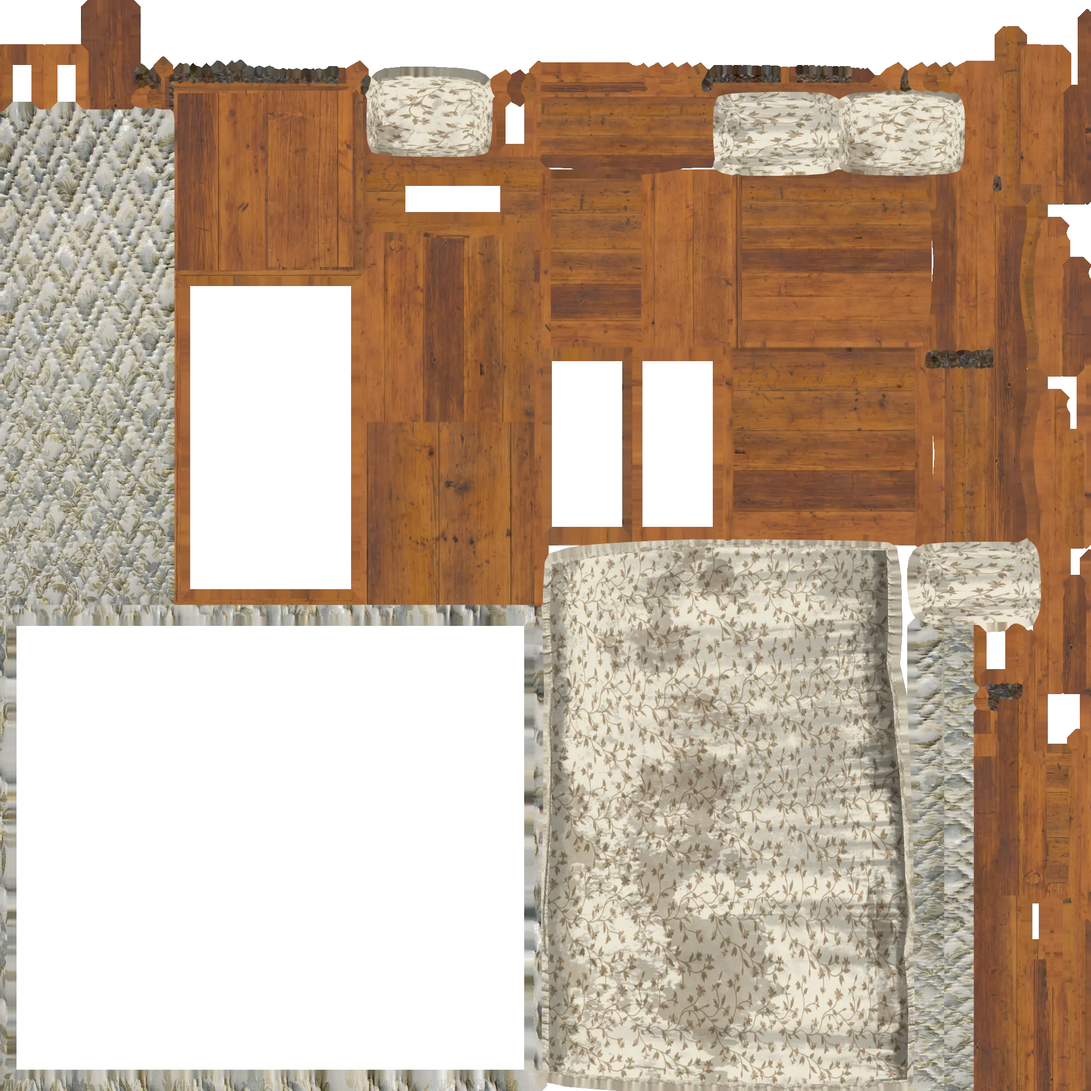
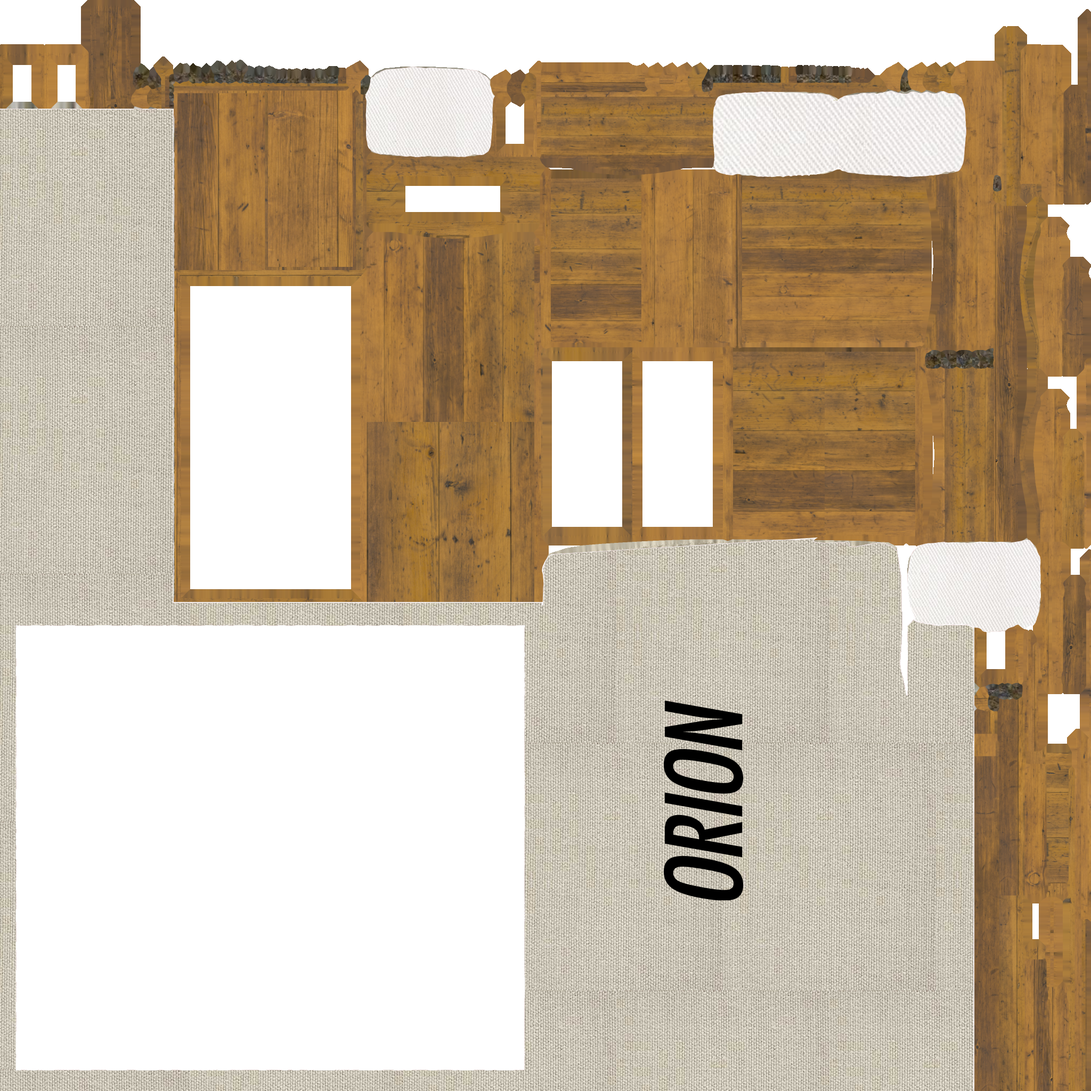
Fixed spotlight problems, added other textures, added sofa model. TODO fix sofa texture

Changed region(s): [[0.0, 0.0938, 0.9688, 1.0], [0.6562, 0.0625, 0.9062, 0.1875], [0.3125, 0.0625, 0.4688, 0.1562]]

diff --git a/js/main.js b/js/main.js
@@ -119,31 +119,31 @@ var furnituresConfig = [
         name: 'bed',
         type: 'JSON',
         imageType: '.png',
-        initCoords: utils.MakeTranslateMatrix(- 1.0, 0.0, - 0.5),
+        initCoords: utils.MakeTranslateMatrix(- 2.0, 0.0, - 4.5),
         initScale: utils.MakeScaleMatrix(0.8),
-        initRotation: utils.MakeRotateYMatrix(30),
+        initRotation: utils.MakeRotateYMatrix(0),
     },
     {
         name: 'bed_2',
         type: 'JSON',
         imageType: '.png',
-        initCoords: utils.MakeTranslateMatrix(- 3.0, 0.0, - 2.5),
+        initCoords: utils.MakeTranslateMatrix( 2.0, 0.0, - 4.5),
         initScale: utils.MakeScaleMatrix(0.9),
-        initRotation: utils.MakeRotateYMatrix(30),
+        initRotation: utils.MakeRotateYMatrix(0),
     },
     {
         name: 'closet',
         type: 'JSON',
         imageType: '.png',
-        initCoords: utils.MakeTranslateMatrix(3.0, 0.6, - 2.5),
-        initScale: utils.MakeScaleMatrix(1),
-        initRotation: utils.MakeRotateYMatrix(0),
+        initCoords: utils.MakeTranslateMatrix(5.0, 0.6, 7),
+        initScale: utils.MakeScaleMatrix(2),
+        initRotation: utils.MakeRotateYMatrix(-90),
     },
     {
         name: 'book-shelf',
         type: 'JSON',
         imageType: '.jpg',
-        initCoords: utils.MakeTranslateMatrix(-10.0, 0.0, - 2.5),
+        initCoords: utils.MakeTranslateMatrix(9.0, 0.0, - 2.5),
         initScale: utils.MakeScaleMatrix(0.8),
         initRotation: utils.MakeRotateYMatrix(0),
     },
@@ -151,9 +151,16 @@ var furnituresConfig = [
         name: 'chair',
         type: 'JSON',
         imageType: '.png',
-        initCoords: utils.MakeTranslateMatrix(3.0, 0.0, - 5.5),
+        initCoords: utils.MakeTranslateMatrix(-4.0, 0.0,  2.5),
         initScale: utils.MakeScaleMatrix(0.01),
         initRotation: utils.MakeRotateXMatrix(-90),
+    },
+    {
+        name: 'Sofa',
+        type: 'JSON',
+        initCoords: utils.MakeTranslateMatrix(-6.0, -0.4, -6.0),
+        initScale: utils.MakeScaleMatrix(0.1),
+        initRotation: utils.MakeRotateYMatrix(0),
     },
     {
         name: 'Room',
@@ -206,11 +213,9 @@ class Furniture {
 
     updateWorldMatrix(matrix) {
         if (matrix) {
-            console.log("a " + this.name);
             // a matrix was passed in so do the math
             this.worldMatrix = utils.multiplyMatrices(matrix, this.localMatrix);
         } else {
-            console.log("b " + this.name);
 
             // no matrix was passed in so just copy.
             utils.copy(this.localMatrix, this.worldMatrix);
@@ -325,9 +330,9 @@ function initParams() {
     spotlight.color = warmLight;
     spotlight.position = [0.0,4.5,0.0];
     spotlight.targetPosition = [0,0,0];
-    spotlight.decay = 1.0;
+    spotlight.decay = 0;
     spotlight.target = 2.5;
-    spotlight.coneIn = 20.0;
+    spotlight.coneIn = 30.0;
     spotlight.coneOut = 60.0;
     spotlight.On = true;
     //direct light
@@ -364,7 +369,6 @@ async function compileAndLinkShaders() {
         program = utils.createAndCompileShaders(gl, shaderText);
     });
     gl.useProgram(program);
-    console.log("compiled shaders");
 }
 
 function getAttributeLocations() {
@@ -408,11 +412,9 @@ function getUniformLocations() {
 
 async function loadModels() {
     for (const furnitureConfig in furnituresConfig) {
-        console.log("model " + furnituresConfig[furnitureConfig]);
         await loadModel(furnituresConfig[furnitureConfig]);
     }
 
-    console.log("loaded files");
 }
 
 async function loadModel(furnitureConfig) {
@@ -517,11 +519,9 @@ async function loadModel(furnitureConfig) {
 
             
             if (textures.has(component.textureImageName)){
-                console.log("existing texture " + component.textureImageName);
                 
                 setTexture(textures.get(component.textureImageName),texture);
             } else {
-                console.log("new texture " + component.textureImageName);
                 
                 let image = new Image();
                 var path = window.location.pathname;
@@ -530,7 +530,6 @@ async function loadModel(furnitureConfig) {
                 modelsDir = baseDir + "models/";
 
                 image.onload = function() {
-                    console.log("new " + component.textureImageName);
                     
                     setTexture(image, texture);
                     textures.set(component.textureImageName, image);
@@ -545,8 +544,6 @@ async function loadModel(furnitureConfig) {
         }
     });
 
-    console.log("cached images ");
-    console.log(textures);
 }
 
 function setTexture(image, texture) {
@@ -744,6 +741,10 @@ function rotateCameraOnFurniture(dx) {
     cy = posInOrbit[1];
     cz = posInOrbit[2];
     updateSpotlightPosition();
+    console.log('spotlight pos: '+ spotlight.position);
+    console.log('camPosition: ' + furniture.getOrbitCoordinates());
+    console.log('spotlight target pos: '+ spotlight.targetPosition);
+    console.log('furn Position: ' + furniture.getWorldCoordinates());
 
 }
 
@@ -752,7 +753,7 @@ function updateSpotlightPosition() {
         furniture = furnitures.get(cameraTour[currCamera]);
         camPosition = furniture.getOrbitCoordinates();
         spotlight.position[0] =  camPosition[0];
-        spotlight.position[0] = 0;
+        spotlight.position[1] = camPosition[1];
         spotlight.position[2] =  camPosition[2];
         spotlight.targetPosition = furniture.getWorldCoordinates();
     }
